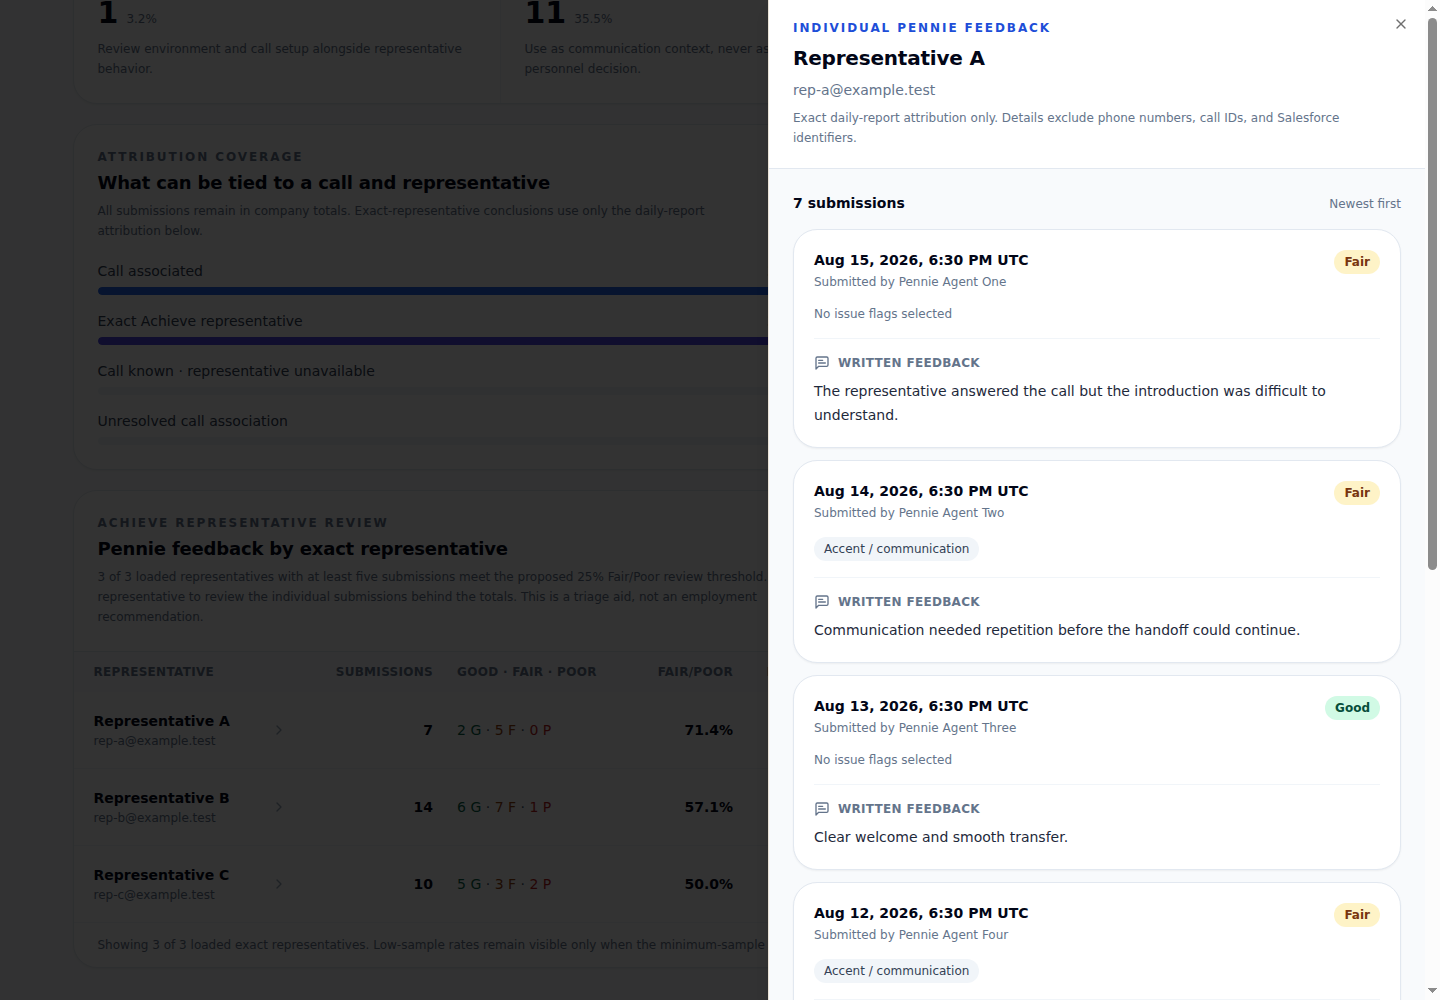
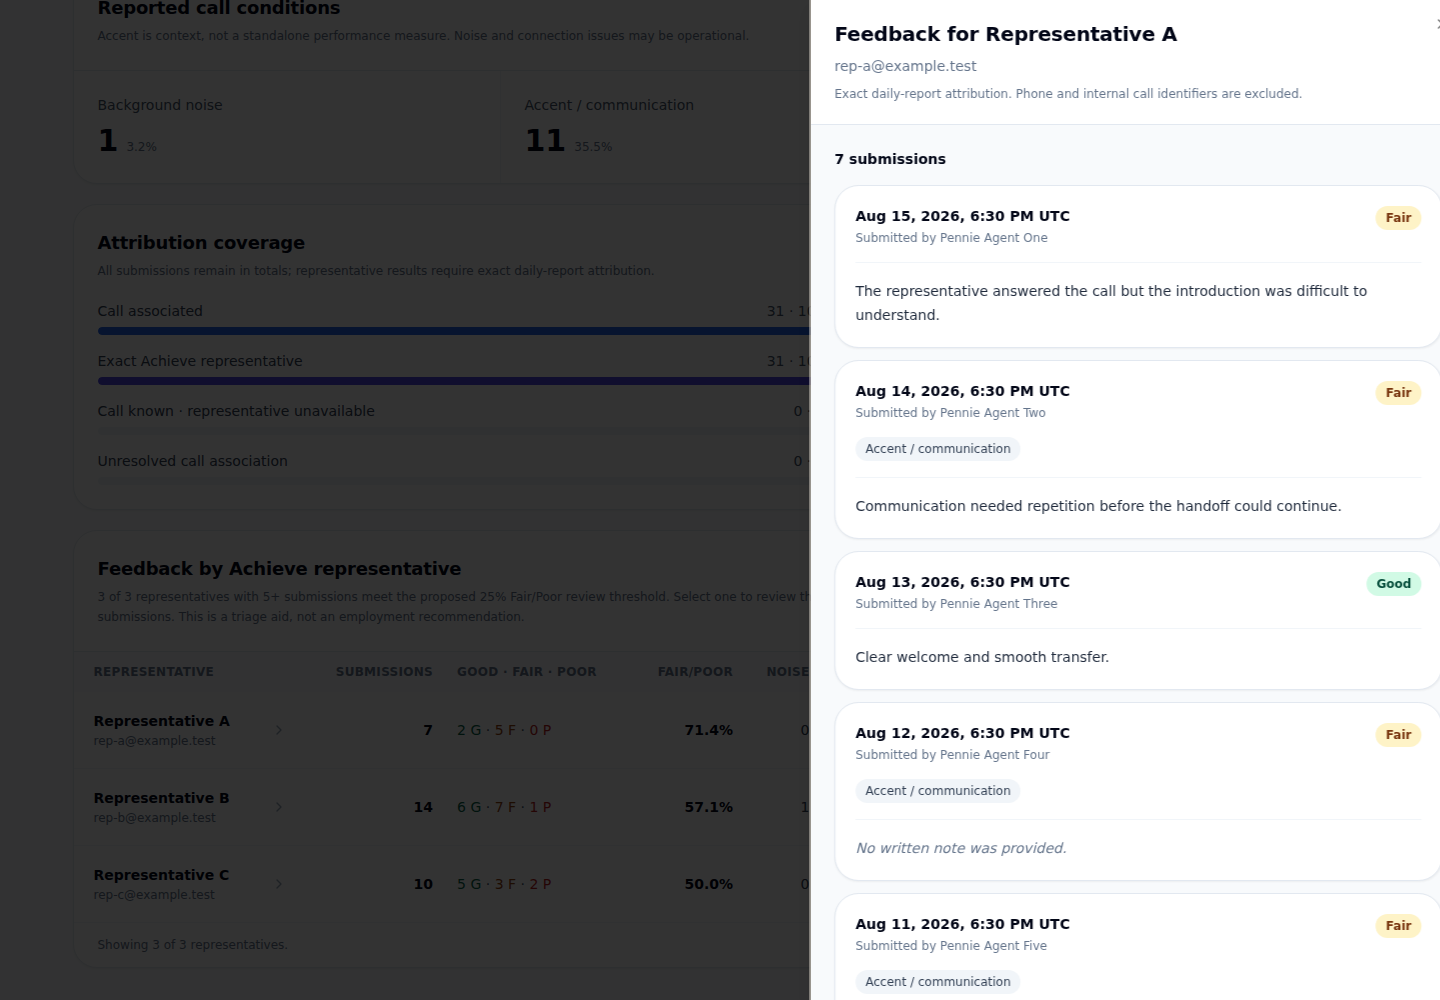
Simplify Achieve feedback UI copy

diff --git a/src/components/achieve/AchieveFeedbackOverview.tsx b/src/components/achieve/AchieveFeedbackOverview.tsx
@@ -56,11 +56,10 @@ function RatingMetric({ label, count, total, tone }: {
   )
 }
 
-function FlagMetric({ label, count, total, note }: {
+function FlagMetric({ label, count, total }: {
   label: string
   count: number
   total: number
-  note: string
 }) {
   return (
     <div className="min-w-0 border-t border-slate-100 p-5 first:border-t-0 sm:border-l sm:border-t-0 sm:first:border-l-0 sm:p-6">
@@ -69,7 +68,6 @@ function FlagMetric({ label, count, total, note }: {
         <span className="text-3xl font-semibold tabular-nums text-slate-950">{count}</span>
         <span className="text-xs tabular-nums text-slate-500">{percentage(count, total).toFixed(1)}%</span>
       </dd>
-      <p className="mt-2 text-xs leading-5 text-slate-500">{note}</p>
     </div>
   )
 }
@@ -109,13 +107,10 @@ export function AchieveFeedbackOverview({ dashboard, onOpenQaMatching }: {
       <section className="overflow-hidden rounded-2xl border border-slate-800 bg-slate-950 text-white shadow-sm">
         <div className="grid min-w-0 gap-6 p-5 sm:p-7 lg:grid-cols-[minmax(0,0.9fr)_minmax(24rem,1.1fr)] lg:items-end">
           <div className="min-w-0">
-            <p className="text-xs font-semibold uppercase tracking-[0.16em] text-blue-300">Pennie-agent source of truth</p>
-            <div className="mt-4 text-6xl font-semibold tabular-nums tracking-tight text-white sm:text-7xl">{scope.totalSubmissions}</div>
+            <div className="text-6xl font-semibold tabular-nums tracking-tight text-white sm:text-7xl">{scope.totalSubmissions}</div>
             <h2 className="mt-2 text-xl font-semibold tracking-tight text-white sm:text-2xl">Form feedback submissions</h2>
-            <p className="mt-2 max-w-xl text-sm leading-6 text-slate-300">
-              Complete synced Form period · {scopeLabel} · UTC. These totals are not limited by the QA call window.
-            </p>
-            <p className="mt-4 text-xs text-slate-400">Updated {updatedDate.format(new Date(overview.generatedAt))} UTC</p>
+            <p className="mt-2 max-w-xl text-sm leading-6 text-slate-300">{scopeLabel} · UTC</p>
+            <p className="mt-3 text-xs text-slate-400">Updated {updatedDate.format(new Date(overview.generatedAt))} UTC</p>
           </div>
           <dl className="grid min-w-0 gap-4 border-t border-slate-700 pt-5 sm:grid-cols-2 lg:border-l lg:border-t-0 lg:pl-7 lg:pt-0">
             <RatingMetric label="Good" count={ratings.good} total={scope.totalSubmissions} tone="good" />
@@ -128,16 +123,15 @@ export function AchieveFeedbackOverview({ dashboard, onOpenQaMatching }: {
 
       <section aria-labelledby="reported-conditions-heading" className="rounded-2xl border border-slate-200 bg-white shadow-sm">
         <div className="border-b border-slate-200 p-5 sm:p-6">
-          <p className="text-xs font-semibold uppercase tracking-[0.16em] text-slate-500">Reported call conditions</p>
-          <h2 id="reported-conditions-heading" className="mt-1 text-lg font-semibold text-slate-950">Signals Pennie agents recorded</h2>
+          <h2 id="reported-conditions-heading" className="text-lg font-semibold text-slate-950">Reported call conditions</h2>
           <p className="mt-1 max-w-3xl text-xs leading-5 text-slate-500">
-            These are reported observations. Accent is not by itself a performance failure; noise and connection issues may be operational rather than representative-controlled.
+            Accent is context, not a standalone performance measure. Noise and connection issues may be operational.
           </p>
         </div>
         <dl className="grid sm:grid-cols-3">
-          <FlagMetric label="Background noise" count={flags.backgroundNoise} total={scope.totalSubmissions} note="Review environment and call setup alongside representative behavior." />
-          <FlagMetric label="Accent / communication" count={flags.accent} total={scope.totalSubmissions} note="Use as communication context, never as a standalone personnel decision." />
-          <FlagMetric label="Connection issue" count={flags.connectionIssues} total={scope.totalSubmissions} note="Check telephony and transfer quality before assigning responsibility." />
+          <FlagMetric label="Background noise" count={flags.backgroundNoise} total={scope.totalSubmissions} />
+          <FlagMetric label="Accent / communication" count={flags.accent} total={scope.totalSubmissions} />
+          <FlagMetric label="Connection issue" count={flags.connectionIssues} total={scope.totalSubmissions} />
         </dl>
       </section>
 

diff --git a/src/components/achieve/AchieveRepresentativeFeedbackDrawer.tsx b/src/components/achieve/AchieveRepresentativeFeedbackDrawer.tsx
@@ -1,5 +1,5 @@
 import { useQuery } from '@tanstack/react-query'
-import { AlertCircle, MessageSquareText } from 'lucide-react'
+import { AlertCircle } from 'lucide-react'
 import { Sheet, SheetContent, SheetDescription, SheetHeader, SheetTitle } from '@/components/ui/sheet'
 import type {
   AchieveRepresentativeFeedback,
@@ -38,12 +38,10 @@ function FeedbackFlags({ detail }: { detail: AchieveRepresentativeFeedbackDetail
     detail.flags.connectionIssues ? 'Connection issue' : null,
   ].filter((flag): flag is string => flag !== null)
 
-  if (flags.length === 0) {
-    return <p className="text-xs text-slate-500">No issue flags selected</p>
-  }
+  if (flags.length === 0) return null
 
   return (
-    <div className="flex flex-wrap gap-2" aria-label="Reported conditions">
+    <div className="mt-4 flex flex-wrap gap-2" aria-label="Reported conditions">
       {flags.map(flag => (
         <span key={flag} className="rounded-full bg-slate-100 px-2.5 py-1 text-xs font-medium text-slate-700">
           {flag}
@@ -70,20 +68,12 @@ function FeedbackCard({ detail }: { detail: AchieveRepresentativeFeedbackDetail 
           {rating.label}
         </span>
       </div>
-      <div className="mt-4">
-        <FeedbackFlags detail={detail} />
-      </div>
-      <div className="mt-4 border-t border-slate-100 pt-4">
-        <div className="flex items-center gap-2 text-xs font-semibold uppercase tracking-wide text-slate-500">
-          <MessageSquareText className="h-4 w-4" aria-hidden="true" />
-          Written feedback
-        </div>
-        <p className={`mt-2 whitespace-pre-wrap [overflow-wrap:anywhere] text-sm leading-6 ${
-          detail.notes ? 'text-slate-800' : 'italic text-slate-500'
-        }`}>
-          {detail.notes ?? 'No written note was provided.'}
-        </p>
-      </div>
+      <FeedbackFlags detail={detail} />
+      <p className={`mt-4 whitespace-pre-wrap border-t border-slate-100 pt-4 [overflow-wrap:anywhere] text-sm leading-6 ${
+        detail.notes ? 'text-slate-800' : 'italic text-slate-500'
+      }`}>
+        {detail.notes ?? 'No written note was provided.'}
+      </p>
     </article>
   )
 }
@@ -116,14 +106,13 @@ export function AchieveRepresentativeFeedbackDrawer({ representative, onClose }:
         {representative && (
           <>
             <SheetHeader className="border-b border-slate-200 bg-white px-5 py-5 text-left sm:px-6">
-              <p className="text-xs font-semibold uppercase tracking-[0.16em] text-blue-700">Individual Pennie feedback</p>
-              <SheetTitle className="mt-1 [overflow-wrap:anywhere] text-xl text-slate-950">
-                {representative.agentName}
+              <SheetTitle className="[overflow-wrap:anywhere] text-xl text-slate-950">
+                Feedback for {representative.agentName}
               </SheetTitle>
               <SheetDescription className="text-left">
                 <span className="block [overflow-wrap:anywhere] text-sm text-slate-500">{representative.agentEmail}</span>
                 <span className="block pt-2 text-xs leading-5 text-slate-500">
-                  Exact daily-report attribution only. Details exclude phone numbers, call IDs, and Salesforce identifiers.
+                  Exact daily-report attribution. Phone and internal call identifiers are excluded.
                 </span>
               </SheetDescription>
             </SheetHeader>
@@ -154,12 +143,9 @@ export function AchieveRepresentativeFeedbackDrawer({ representative, onClose }:
                 </div>
               ) : (
                 <>
-                  <div className="mb-4 flex flex-wrap items-baseline justify-between gap-2">
-                    <p className="text-sm font-semibold text-slate-950">
-                      {detailQuery.data.coverage.total} {detailQuery.data.coverage.total === 1 ? 'submission' : 'submissions'}
-                    </p>
-                    <p className="text-xs text-slate-500">Newest first</p>
-                  </div>
+                  <p className="mb-4 text-sm font-semibold text-slate-950">
+                    {detailQuery.data.coverage.total} {detailQuery.data.coverage.total === 1 ? 'submission' : 'submissions'}
+                  </p>
                   {detailQuery.data.coverage.capReached && (
                     <p className="mb-4 rounded-xl bg-amber-50 p-3 text-xs font-semibold leading-5 text-amber-900">
                       Showing {detailQuery.data.coverage.loaded} of {detailQuery.data.coverage.total} submissions.

diff --git a/src/components/achieve/AchieveRepresentativeTable.tsx b/src/components/achieve/AchieveRepresentativeTable.tsx
@@ -66,10 +66,9 @@ export function AchieveRepresentativeTable({ representatives, coverage }: {
       <div className="border-b border-slate-200 p-5 sm:p-6">
         <div className="flex flex-col gap-4 lg:flex-row lg:items-end lg:justify-between">
           <div className="min-w-0">
-            <p className="text-xs font-semibold uppercase tracking-[0.16em] text-slate-500">Achieve representative review</p>
-            <h2 id="representative-review-heading" className="mt-1 text-lg font-semibold text-slate-950">Pennie feedback by exact representative</h2>
+            <h2 id="representative-review-heading" className="text-lg font-semibold text-slate-950">Feedback by Achieve representative</h2>
             <p className="mt-1 max-w-3xl text-xs leading-5 text-slate-500">
-              {needsReview} of {sampleEligible} loaded representatives with at least five submissions meet the proposed 25% Fair/Poor review threshold. Select a representative to review the individual submissions behind the totals. This is a triage aid, not an employment recommendation.
+              {needsReview} of {sampleEligible} representatives with 5+ submissions meet the proposed 25% Fair/Poor review threshold. Select one to review their submissions. This is a triage aid, not an employment recommendation.
             </p>
           </div>
           <div className="grid gap-2 sm:grid-cols-[minmax(14rem,1fr)_auto] lg:w-auto">
@@ -206,7 +205,7 @@ export function AchieveRepresentativeTable({ representatives, coverage }: {
         </>
       )}
         <p className="border-t border-slate-100 px-5 py-3 text-xs leading-5 text-slate-500 sm:px-6">
-          Showing {filtered.length} of {coverage.loaded} loaded exact representatives. Low-sample rates remain visible only when the minimum-sample filter is cleared.
+          Showing {filtered.length} of {coverage.loaded} representatives.
         </p>
       </section>
       <AchieveRepresentativeFeedbackDrawer

diff --git a/src/pages/AchievePortalPage.tsx b/src/pages/AchievePortalPage.tsx
@@ -303,18 +303,16 @@ function AchieveReviewQueue() {
                 : 'Operational Eavesly AI QA, call review, matching exceptions, and historical backfill evidence.'}
             </p>
           </div>
-          <div className="flex items-center justify-between gap-3 lg:justify-end">
-            <p className="text-xs leading-5 text-slate-500">
-              {activeView === 'agent-feedback'
-                ? feedbackDashboardQuery.data
-                  ? `${feedbackDashboardQuery.data.overview.scope.totalSubmissions} complete Form submissions`
-                  : 'Complete Form source'
-                : `${analytics.loadedCalls} loaded ${analytics.loadedCalls === 1 ? 'call' : 'calls'}${
-                    isFeedbackFiltered ? ' after filtering' : ''
-                  }${!isFeedbackFiltered && portalQuery.data ? ` of ${portalQuery.data.coverage.total} total` : ''}${
-                    portalQuery.data?.coverage.capReached ? ` · capped at ${portalQuery.data.coverage.cap}` : ''
-                  }`}
-            </p>
+          <div className="flex items-center justify-end gap-3">
+            {activeView === 'qa-matching' && (
+              <p className="text-xs leading-5 text-slate-500">
+                {`${analytics.loadedCalls} loaded ${analytics.loadedCalls === 1 ? 'call' : 'calls'}${
+                  isFeedbackFiltered ? ' after filtering' : ''
+                }${!isFeedbackFiltered && portalQuery.data ? ` of ${portalQuery.data.coverage.total} total` : ''}${
+                  portalQuery.data?.coverage.capReached ? ` · capped at ${portalQuery.data.coverage.cap}` : ''
+                }`}
+              </p>
+            )}
             <button
               type="button"
               onClick={refresh}

diff --git a/src/components/achieve/AchieveFeedbackCoverage.tsx b/src/components/achieve/AchieveFeedbackCoverage.tsx
@@ -56,10 +56,9 @@ export function AchieveFeedbackCoverage({ overview, onOpenQaMatching }: {
     <section aria-labelledby="feedback-coverage-heading" className="rounded-2xl border border-slate-200 bg-white shadow-sm">
       <div className="grid min-w-0 gap-6 p-5 sm:p-6 lg:grid-cols-[minmax(0,1.25fr)_minmax(18rem,0.75fr)]">
         <div className="min-w-0">
-          <p className="text-xs font-semibold uppercase tracking-[0.16em] text-slate-500">Attribution coverage</p>
-          <h2 id="feedback-coverage-heading" className="mt-1 text-lg font-semibold text-slate-950">What can be tied to a call and representative</h2>
+          <h2 id="feedback-coverage-heading" className="text-lg font-semibold text-slate-950">Attribution coverage</h2>
           <p className="mt-1 max-w-2xl text-xs leading-5 text-slate-500">
-            All submissions remain in company totals. Exact-representative conclusions use only the daily-report attribution below.
+            All submissions remain in totals; representative results require exact daily-report attribution.
           </p>
           <div className="mt-5 space-y-4">
             <CoverageRow label="Call associated" count={coverage.callAssociated} total={totalSubmissions} tone="blue" />

diff --git a/supabase/functions/achieve-portal/feedback-overview-boundary.check.js b/supabase/functions/achieve-portal/feedback-overview-boundary.check.js
@@ -36,7 +36,7 @@ assert.ok(queries.includes("invokePortal('list_feedback_for_rep', { agent_email:
 assert.ok(queries.includes('parseAchieveRepresentativeFeedbackDetails(response)'))
 assert.ok(representativeTable.includes('setSelectedRepresentative(representative)'))
 assert.ok(representativeDrawer.includes('fetchAchieveRepresentativeFeedback'))
-assert.ok(representativeDrawer.includes('Details exclude phone numbers, call IDs, and Salesforce identifiers.'))
+assert.ok(representativeDrawer.includes('Phone and internal call identifiers are excluded.'))
 assert.ok(page.includes("useState<'agent-feedback' | 'qa-matching'>('agent-feedback')"))
 assert.ok(page.includes('dashboard={feedbackDashboardQuery.data}'))
 assert.ok(page.includes('QA &amp; Matching'))
